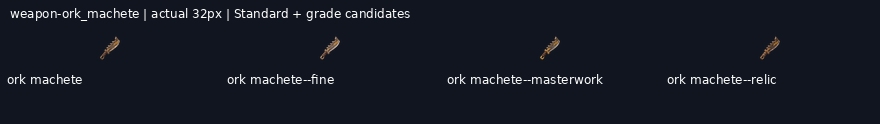
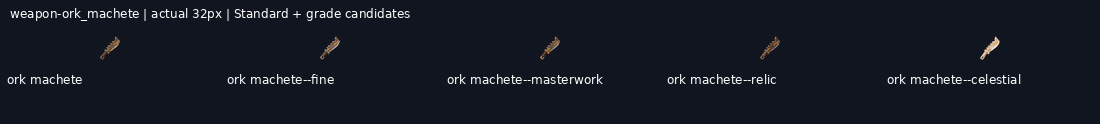
Deliver weapon-ork_machete--celestial review candidate with native provenance and exports

diff --git a/art/briefs/prompts-2026-11-19/PRODUCTION-STATUS.md b/art/briefs/prompts-2026-11-19/PRODUCTION-STATUS.md
@@ -1,12 +1,12 @@
 # Current sole-artist production
 
-**549/871 (63.0%) selected review candidates.** Last delivery: `weapon-ork_machete--relic`. Imports, exports, components, rejected attempts and archived alternatives add0. Artistic/implementation approvals remainfalse.
+**550/871 (63.1%) selected review candidates.** Last delivery: `weapon-ork_machete--celestial`. Imports, exports, components, rejected attempts and archived alternatives add0. Artistic/implementation approvals remainfalse.
 
 | Requested work | Selected | Total |
 | --- | ---: | ---: |
 | icons_tiles | 88 | 88 |
 | new_repaint_standards | 53 | 104 |
-| grades | 394 | 656 |
+| grades | 395 | 656 |
 | uniques | 14 | 23 |
 
 Active run sole-20261121-0109, branch art/2026-11-20-reset-continuation. Shared live ledger: https://github.com/leonpentastorm/Project-Heaven-Cry/issues/3 . Current renewed grade lane: art/_archive/gear/2026-11-21-retry-continuation/START-HERE.md. All earlier512 candidate drawings were integrated before this lane; native bytes, cleaned imports, source metadata and all prior failures preserved.

diff --git a/art/_archive/gear/2026-11-21-retry-continuation/HANDOFF.md b/art/_archive/gear/2026-11-21-retry-continuation/HANDOFF.md
@@ -1,13 +1,13 @@
 # Reset continuation progress
 
-Branch: `art/2026-11-20-reset-continuation`. New deliveries: 36/41.
+Branch: `art/2026-11-20-reset-continuation`. New deliveries: 37/41.
 
 Shared coordination: https://github.com/leonpentastorm/Project-Heaven-Cry/issues/3 . Read START-HERE.md before extending this queue.
 
 All new entries remain review-candidate; production_approved:false and implementation_ready:false. Exact-outline review remains pending.
 
-Ready jobs: weapon-purifier_flamer--masterwork, weapon-ork_machete--celestial, weapon-war_pick--celestial.
+Ready jobs: weapon-purifier_flamer--masterwork, weapon-war_pick--celestial.
 
-Pending jobs: weapon-purifier_flamer--masterwork, weapon-purifier_flamer--relic, weapon-purifier_flamer--celestial, weapon-ork_machete--celestial, weapon-war_pick--celestial.
+Pending jobs: weapon-purifier_flamer--masterwork, weapon-purifier_flamer--relic, weapon-purifier_flamer--celestial, weapon-war_pick--celestial.
 
 Quota state: null.

diff --git a/art/_archive/gear/2026-11-20-reset-continuation/START-HERE.md b/art/_archive/gear/2026-11-20-reset-continuation/START-HERE.md
@@ -1,6 +1,6 @@
 # Current21November continuation
 
-549/871 selected. Active lane art/_archive/gear/2026-11-21-retry-continuation/START-HERE.md, run sole-20261121-0109. User explicitly authorized renewed fictional-art attempts; all priorart/errors preserved. Read liveissue3+allcomments and remote deliveries before everyrender. RunningScript completed with original marks unchanged. All approvalsfalse;0.30 holdsremain. See PRODUCTION-STATUS.md and REMAINING-WORK.json for the latest exact count.
+550/871 selected. Active lane art/_archive/gear/2026-11-21-retry-continuation/START-HERE.md, run sole-20261121-0109. User explicitly authorized renewed fictional-art attempts; all priorart/errors preserved. Read liveissue3+allcomments and remote deliveries before everyrender. RunningScript completed with original marks unchanged. All approvalsfalse;0.30 holdsremain. See PRODUCTION-STATUS.md and REMAINING-WORK.json for the latest exact count.
 
 # Historical20November handoff
 
